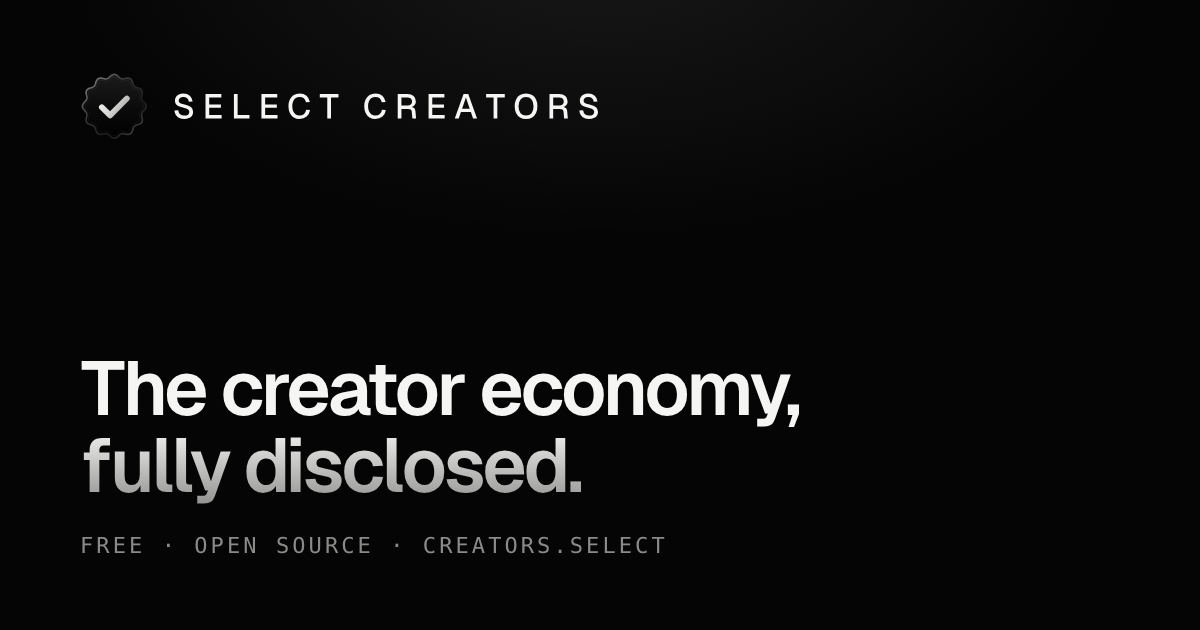
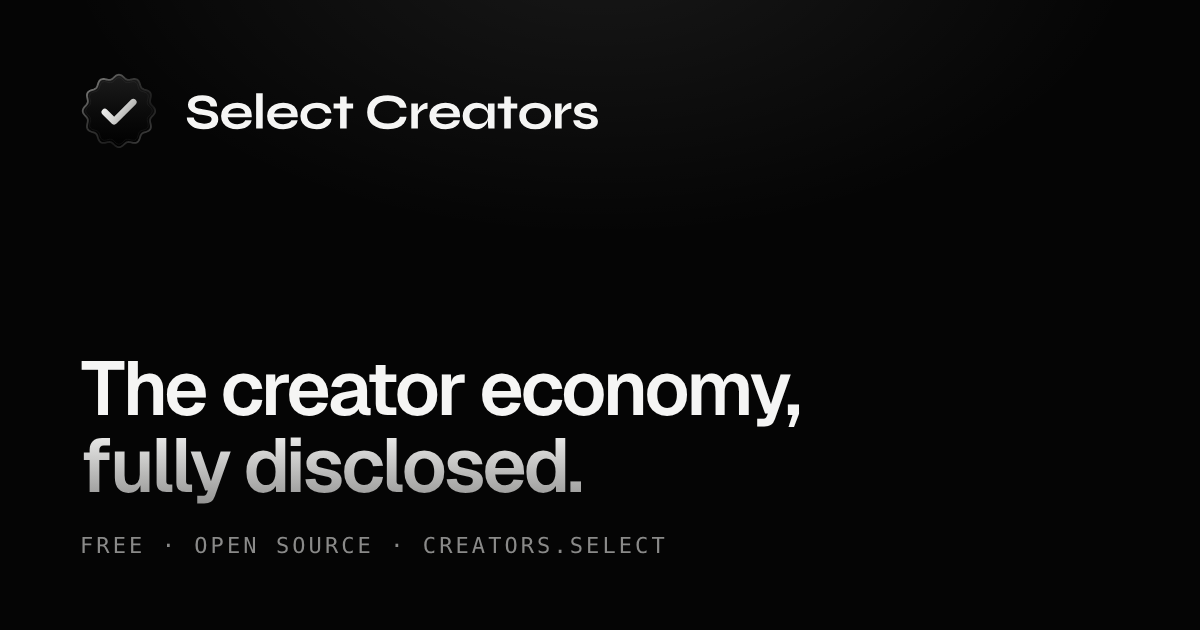
Wordmark: set Select Creators in Syne Bold
William picked Syne from eight options. Regenerate wordmarks, lockups and
PNGs from Syne Bold outlines (font bundled under brand/logo/fonts, OFL),
and use the outlined horizontal lockup as the site header logo.

Claude-Session: https://claude.ai/code/session_01GSau5qcRaMNPrsu7Sdb7vz

Changed region(s): [[0.0617, 0.1206, 0.4933, 0.2413]]

diff --git a/brand/logo/generate.py b/brand/logo/generate.py
@@ -1,11 +1,11 @@
-# Regenerates every SVG in brand/logo from the mark geometry and Geist Medium outlines.
-# Usage: pip install fonttools && GEIST_TTF=path/to/Geist-Medium.ttf python3 brand/logo/generate.py brand/logo
+# Regenerates every SVG in brand/logo from the mark geometry and Syne Bold outlines.
+# Usage: pip install fonttools brotli && python3 brand/logo/generate.py brand/logo
 import math, os, sys
 from fontTools.ttLib import TTFont
 from fontTools.pens.svgPathPen import SVGPathPen
 from fontTools.pens.transformPen import TransformPen
 OUT = sys.argv[1]; os.makedirs(OUT, exist_ok=True)
-FONT = os.environ.get('GEIST_TTF', 'Geist-Medium.ttf')  # from `npm pack geist`: dist/fonts/geist-sans/
+FONT = os.environ.get('WORDMARK_FONT', os.path.join(os.path.dirname(os.path.abspath(__file__)), 'fonts', 'Syne-Bold.woff2'))  # Syne Bold (SIL OFL)
 
 # ---------- mark geometry (64 x 64 grid) ----------
 S = 64; LOBES = 12; R = 28.9; AMP = 1.6  # the rosette: 12 soft scallops (platform badges use 8)
@@ -53,9 +53,12 @@ def text_path(txt, size, track_em):
         tp=TransformPen(pen,(sc,0,0,-sc,x,0)); gs[g].draw(tp)
         x+=gs[g].width*sc + track_em*size
     return pen.getCommands(), x - track_em*size
-CAP = f['OS/2'].sCapHeight
-def wordmark(color, size=20, track=0.22):
-    d,w=text_path('SELECT CREATORS', size, track)
+from fontTools.pens.boundsPen import BoundsPen
+_bp=BoundsPen(gs)
+for _ch in 'SelectCreators': gs[cmap[ord(_ch)]].draw(_bp)
+CAP = _bp.bounds[3]  # tallest glyph top (the ascender of l and t)
+def wordmark(color, size=26, track=-0.02):
+    d,w=text_path('Select Creators', size, track)
     ch=CAP*size/upm
     return d,w,ch
 def word_svg(color):

diff --git a/brand/README.md b/brand/README.md
@@ -23,7 +23,7 @@ What makes it ours and not a copy of any platform's badge:
 | `logo/mark.svg` | Primary. Black seal, titanium edge, platinum check. Dark backgrounds, favicon, avatars. |
 | `logo/mark-black.svg` | One color, check knocked out. Light backgrounds, print, embossing, stamps. |
 | `logo/mark-white.svg` | One color reversed. Dark backgrounds where gradients can't render (email, video overlays). |
-| `logo/wordmark-light.svg` / `wordmark-dark.svg` | SELECT CREATORS alone, for dark / light backgrounds. |
+| `logo/wordmark-light.svg` / `wordmark-dark.svg` | The Syne wordmark alone, for dark / light backgrounds. |
 | `logo/lockup-horizontal-on-dark.svg` / `-on-light.svg` | Default lockup: headers, decks, OG images. |
 | `logo/lockup-stacked-on-dark.svg` / `-on-light.svg` | Square spaces: profile cards, merch, splash screens. |
 | `logo/png/icon-512.png` | App icon, social avatar (Instagram crops to a circle; the seal survives it). |
@@ -39,7 +39,9 @@ What makes it ours and not a copy of any platform's badge:
 
 ## Wordmark
 
-`SELECT CREATORS` in Geist Medium, all caps, tracked +0.22em, converted to outlines. Caps and wide tracking read as engraved, quiet luxury. In live UI (the site header), set it as real text with `--sc-tracking-wordmark` so it stays accessible and crisp.
+`Select Creators` in **Syne Bold**, title case, tracked −0.02em, converted to outlines. Syne is wide and confident with a slight fashion edge, which keeps the brand premium without reading like a generic tech site. The font file ships in `logo/fonts/Syne-Bold.woff2` (SIL Open Font License) so the logos can be regenerated anywhere. The site header uses the outlined horizontal lockup, so it never depends on the font loading.
+
+Pair it with Geist for everything else: Syne is for the wordmark and, at most, very large display moments.
 
 ## Color
 
